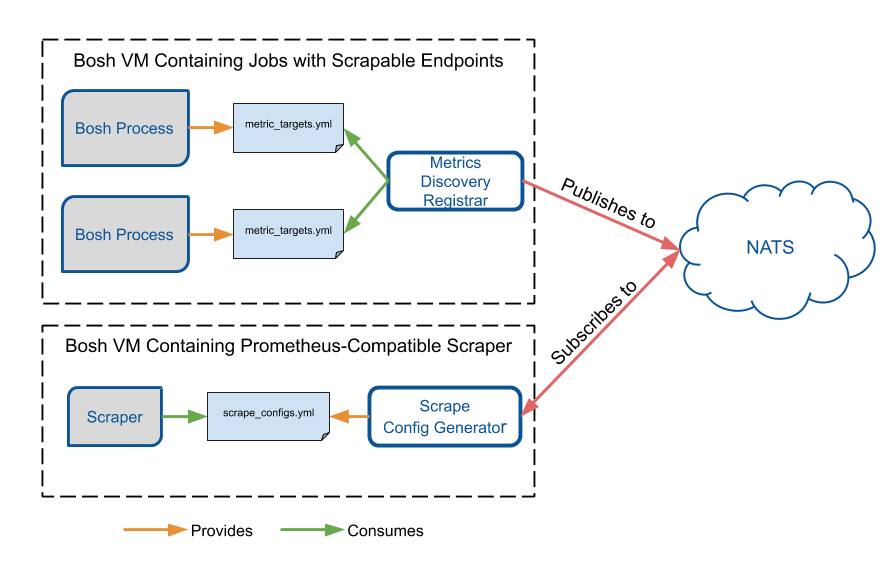
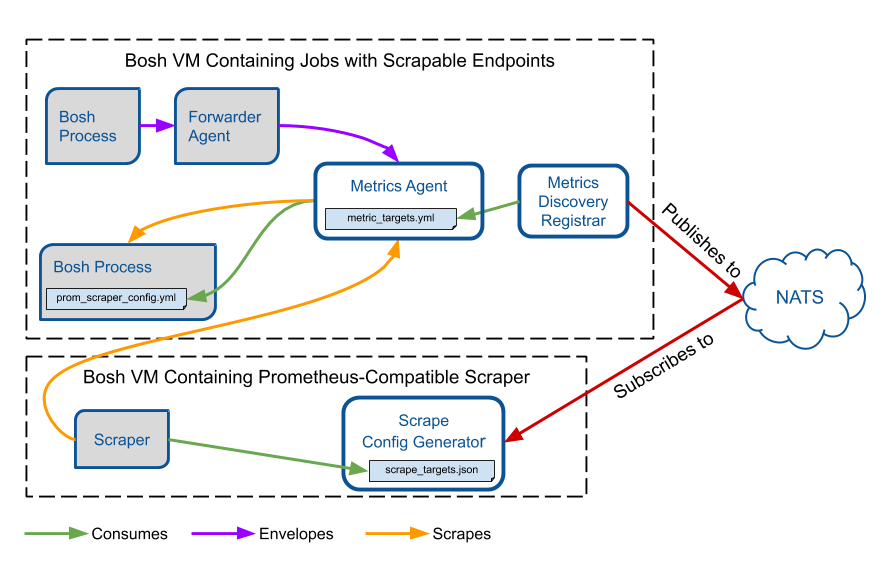
update docs with metrics agent

diff --git a/docs/metrics-agent.md b/docs/metrics-agent.md
@@ -1,6 +1,15 @@
 ## Using Metrics Agent
-Metrics Agent converts Loggregator metrics from the Forwarder Agent into Prometheus Exposition style metrics and hosts
+Metrics Agent proxies to Prometheus-scrapable endpoints defined by `prom_scraper_config.yml` files on the VM.
+
+Metrics Agent also converts Loggregator metrics from the Forwarder Agent into Prometheus Exposition style metrics and hosts
 them on a Prometheus-scrapable endpoint. Loggregator v2 Envelopes are converted to Prometheus metric types.
+
+#### Exporter endpoint
+The Metrics Agent Exporter endpoint hosts all metrics on the VM
+The `id` parameter can be used to target a specific component with a Prometheus-scrapable enpoint and a `prom_scraper_config.yml`
+If no `id` is specified, the metrics converted from Forwarder Agent will be served
+
+- Note: The Metrics Agent filters any metrics from the Forwarder Agent for Source IDs with a `prom_scraper_config.yml`
 
 #### Conversion
 | Loggregator envelope type                                   | Prometheus type                                                                                                                                                                                   |

diff --git a/README.md b/README.md
@@ -31,7 +31,8 @@ The scrape config will be modified as metric targets come and go. Interested met
 for changes.
 
 ### Metrics agent
-An agent that receives metrics from the Forwarder Agent and exposes them on a prometheus-scrapable endpoint.
+An agent that proxies to components with a `prom_scraper_config.yml` and
+receives metrics from the Forwarder Agent and exposes them on a prometheus-scrapable endpoint.
 More information can be found in the [docs][metrics-agent]
 
 ### Pivotal Tracker
